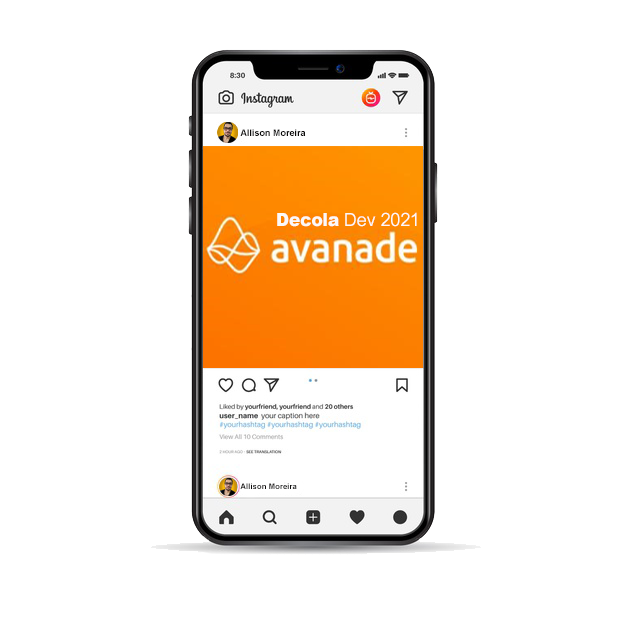
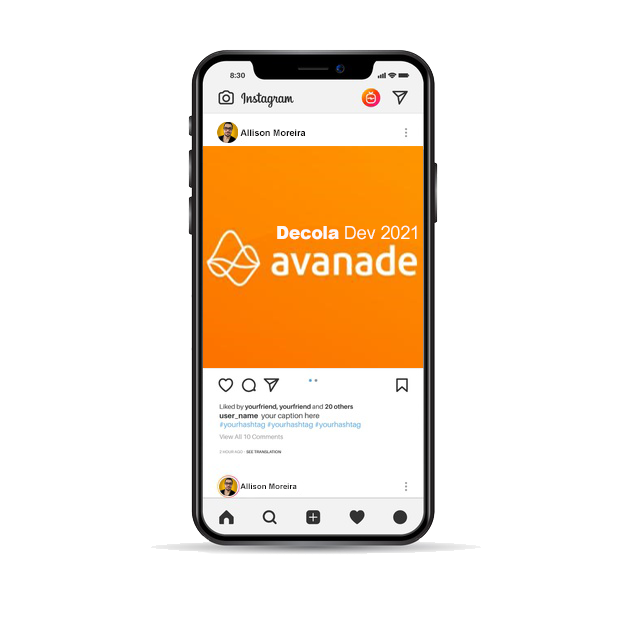
New animation code

Changed region(s): [[0.3339, 0.3339, 0.6677, 0.4553]]

diff --git a/style.css b/style.css
@@ -32,6 +32,26 @@ body {
     width: 50%;
 }
 
+.transition-1 {
+    opacity: 0;
+    position: absolute;
+    padding: 0 0 112px 0;
+
+    animation-name: transition;
+    animation-delay: 2s;
+    animation-duration: 20s;
+    animation-direction: alternate;
+    animation-iteration-count: infinite;
+}
+
+@keyframes transition {
+    0% {opacity: 0}
+    40% {opacity: 0}
+    100% {opacity: 1;}
+}
+
+
+
 .instagram-continue {
     display: flex;
     align-items: center;

diff --git a/index.html b/index.html
@@ -10,6 +10,7 @@
     <div class="instagram-wrapper">
         <div class="instagram-phone">
             <img src="./img/cel-avanade.png" alt="celular">  
+            <img src="./img/transition-1.png" class="transition-1">
         </div>
         <div class="instagram-continue">
                 <div class="group">

diff --git a/README.md b/README.md
@@ -2,7 +2,8 @@
 
 Copy of Instagram's landing page.
 
-With responsive media queries for tablet and mobile.
+- Responsive media queries for tablet and mobile.
+- Animation on cell phone screen
 
 
 
